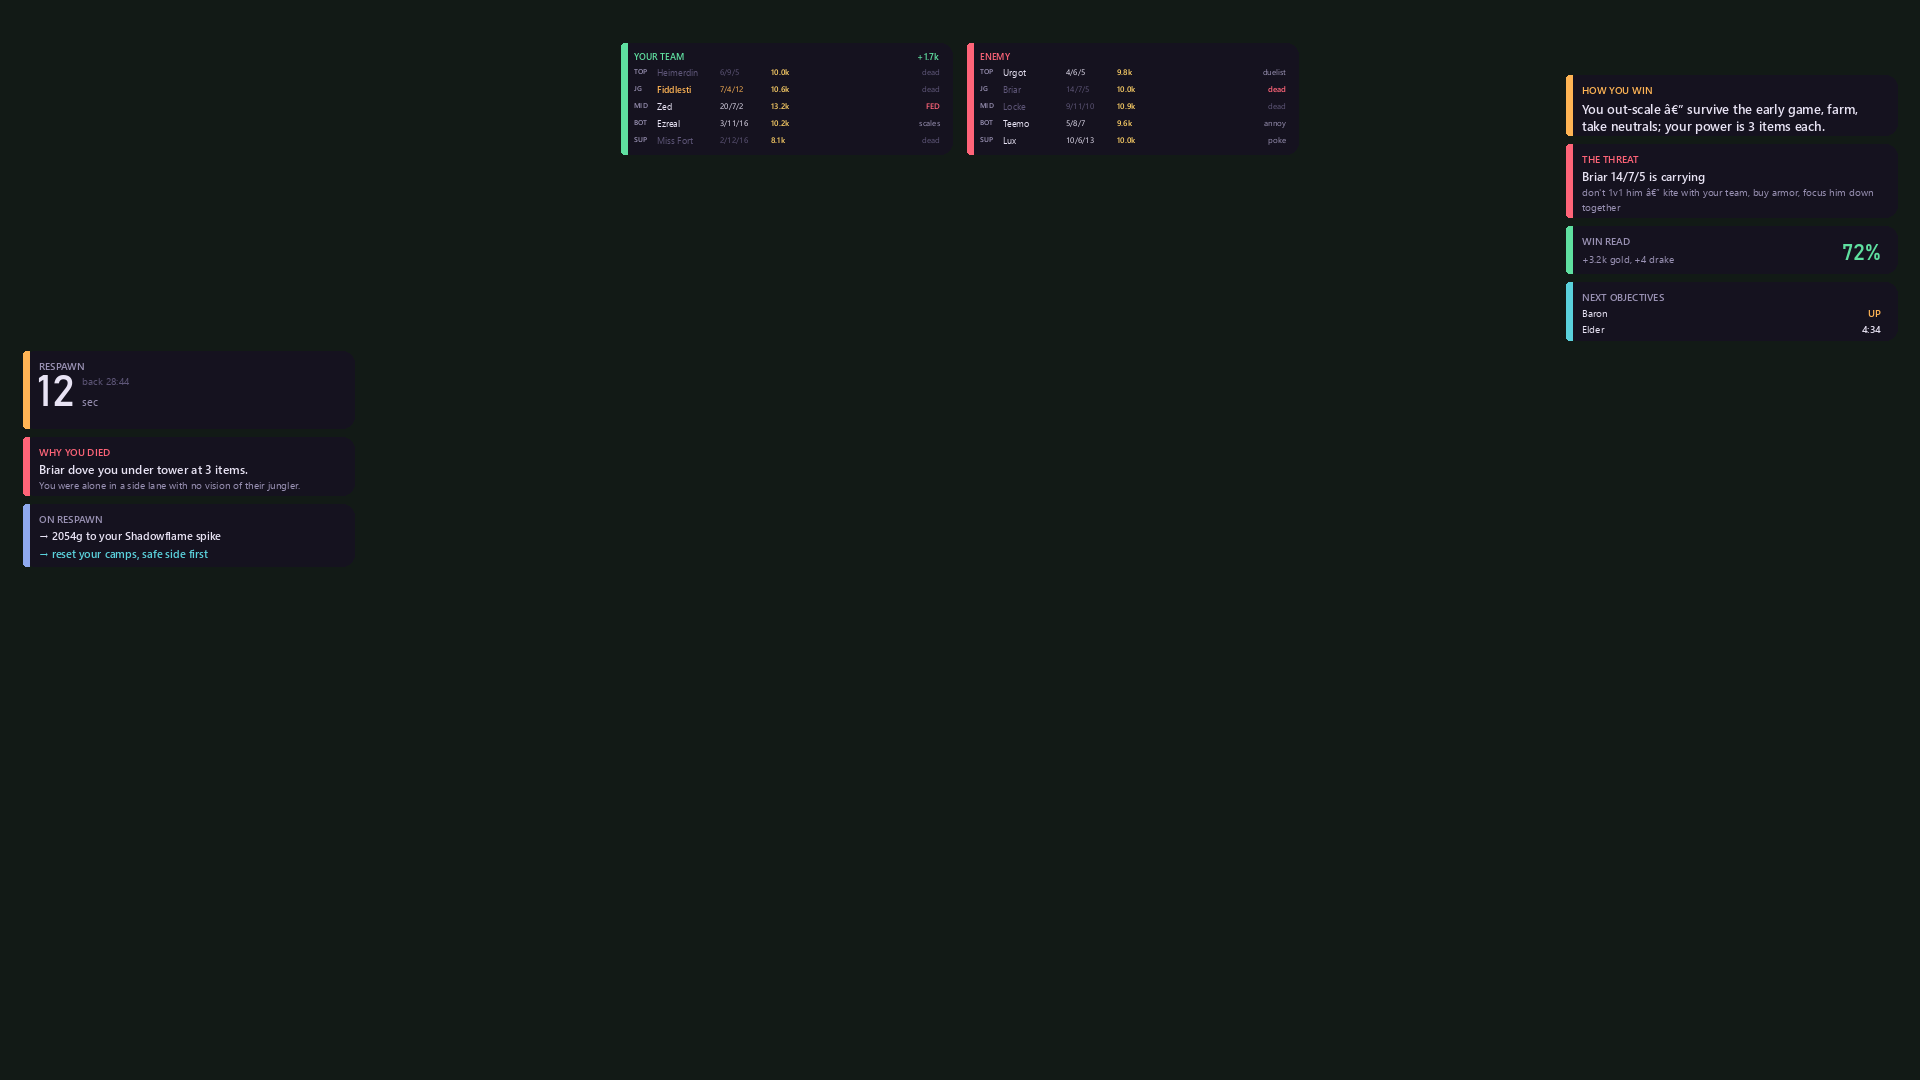
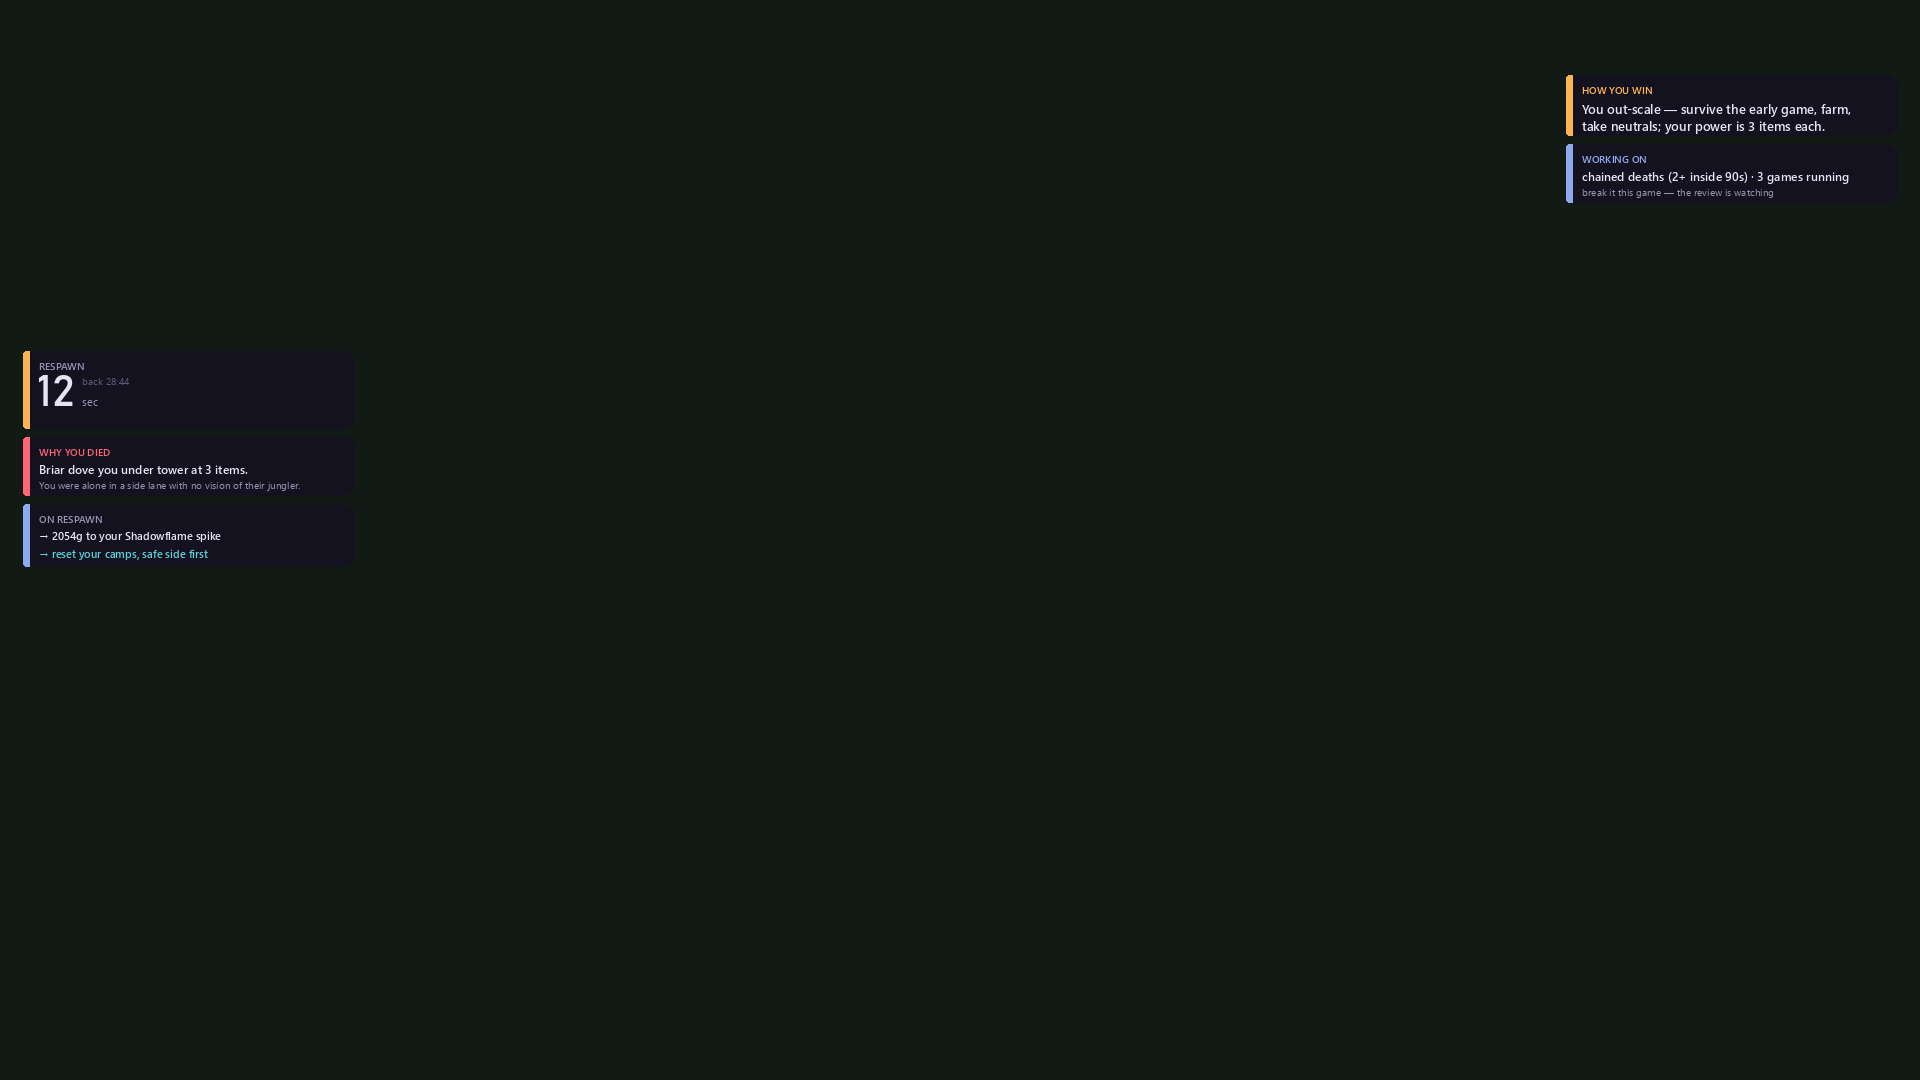
Death brief slimmed to coaching-only + WORKING ON pattern card
Cut boards/threat/win-read/objectives/feed (duplicated TAB, the widget
and chat). Kept: respawn clock + on-respawn plan, WHY YOU DIED, HOW YOU
WIN. Added WORKING ON: the recurring behavior-ledger pattern shown at
the moment of death. ~5% screen coverage.

diff --git a/ui/smitedead.py b/ui/smitedead.py
@@ -1,16 +1,13 @@
 #!/usr/bin/env python3
 """smitedead.py - the fullscreen DEATH BRIEF: a see-through overlay that owns the grey screen.
 
-When you die, this fades in over the whole monitor with the dense read you can't afford to
-process while alive: a giant respawn clock + the one tempo verdict, what to buy on respawn,
-the win read, the scariest enemy spike, the next objectives, and a feed of what you missed.
-Laid out AROUND the game's own death HUD (keep-out map in render_frame): team boards sit
-top-center where TAB lives, the reactive read hangs under the death recap on the left, the
-strategic read hangs under the stats bar on the right — nothing covers the recap, chat,
-respawn portraits, minimap, BACK IN plate, or the TEMPO widget's bottom-left corner. The
-CENTER stays clear (magenta chroma key -> fully transparent AND click-through), so you keep
-watching the fight through it and keep full camera control while dead. It vanishes the
-instant you respawn.
+A death buys you exactly two things: what to do the second you respawn, and one learning
+rep. That's ALL this draws (v0.9.27 cut the team boards / threat / win-read / objectives /
+feed — TAB, the widget and the chat already carry them): the respawn clock + on-respawn
+buy/move, WHY YOU DIED, your recurring PATTERN from the behavior ledger ("working on"),
+and HOW YOU WIN as the one strategic anchor. Laid out around the game's own death HUD
+(keep-out map in render_frame) with the CENTER clear (magenta chroma key -> transparent +
+click-through) so you keep watching the fight. It vanishes the instant you respawn.
 
 100% read-only off the live-client feed (:2999). It never moves your camera or sends a single
 input to the game - that would be automation Riot bans for. It only shows you what's true.
@@ -254,21 +251,10 @@ def render_frame(dd, b, W, H):
             yy += S(20)
         return y + h + S(12)
 
-    # ========== TOP-CENTER: the two team boards, tab-scoreboard position ==========
-    # (the one big free band while dead — the game's own banner sits above, the fight
-    # is usually below; matching the TAB scoreboard's home makes it feel native)
-    board = b.get("board")
-    if board and (board.get("allies") or board.get("enemies")):
-        bw = colw
-        bx = (W - (bw * 2 + S(20))) // 2
-        ty = S(56)
-        if board.get("allies"):
-            _team_block(d, S, bx, ty, bw, board["allies"], "YOUR TEAM", C_GOOD,
-                        lead=board.get("gold_lead"))
-        if board.get("enemies"):
-            _team_block(d, S, bx + bw + S(20), ty, bw, board["enemies"], "ENEMY", C_BAD)
-
     # ========== LEFT LANE: the reactive read (clock, why you died, respawn plan) ==========
+    # (v0.9.27: the team boards / threat / win-read / objectives / feed are GONE — TAB,
+    # the widget and the chat already carry them. A death buys you exactly two things:
+    # what to do on respawn, and one learning rep. That's all this draws now.)
     ly = LY0
     ch = S(100)
     _card(d, lx, ly, colw, ch, _TONE_C.get(b.get("tone"), C_EMBER))
@@ -305,63 +291,44 @@ def render_frame(dd, b, W, H):
                 yy += S(24)
             ly += h + S(12)
 
-    # what you missed, folded into whatever's left of the lane (the game's own chat and
-    # the TEMPO widget live at the bottom-left — never park a card down there again)
-    feed = b.get("feed") or []
-    if feed:
-        rows = min(len(feed), (LY1 - ly - S(40)) // S(22))
-        if rows >= 2:
-            fh = S(40) + S(22) * rows
-            _card(d, lx, ly, colw, fh, C_LINE)
-            d.text((lx + S(22), ly + S(12)), "WHILE YOU WERE DEAD", font=_wfont(S(13), True),
-                   fill=C_MUTED)
-            yy = ly + S(36)
-            for r in feed[:rows]:
-                col = C_GOOD if r.get("ally") else C_BAD
-                d.text((lx + S(22), yy), f"{r.get('ago', 0):>2}s", font=_wfont(S(12)), fill=C_FAINT)
-                d.text((lx + S(60), yy), r.get("text", ""), font=_wfont(S(13)), fill=col)
-                yy += S(22)
-
-    # ========== RIGHT LANE: the strategic read (win con, threat, win%, objectives) ==========
+    # ========== RIGHT LANE: the strategic anchor + the climb lever ==========
     ry = RY0
     if b.get("wincon"):
         ry = _block(rx, ry, "HOW YOU WIN", C_EMBER, b["wincon"], None, C_EMBER, big=True,
                     ymax=RY1)
-    threat = b.get("threat")
-    if threat:
-        ry = _block(rx, ry, "THE THREAT", C_BAD, threat.get("line"), threat.get("sub"), C_BAD,
-                    ymax=RY1)
-    wp = b.get("winprob")
-    if wp:
-        wh = S(62)
-        if ry + wh <= RY1:
-            good = wp.get("ahead")
-            _card(d, rx, ry, colw, wh, C_GOOD if good else C_BAD)
-            _hdr(rx, ry, "WIN READ", C_MUTED)
-            pct = f"~{int(wp.get('pct') or 0)}%"
-            d.text((rx + colw - S(22) - d.textlength(pct, font=_dfont(S(30))), ry + S(20)),
-                   pct, font=_dfont(S(30)), fill=(C_GOOD if good else C_BAD))
-            d.text((rx + S(22), ry + S(34)), wp.get("basis") or "", font=_wfont(S(13)), fill=C_MUTED)
-            ry += wh + S(12)
-    objs = b.get("objectives") or []
-    if objs:
-        rows = min(len(objs), (RY1 - ry - S(34)) // S(22))
-        if rows >= 1:
-            oh = S(34) + S(22) * rows
-            _card(d, rx, ry, colw, oh, C_ARC)
-            _hdr(rx, ry, "NEXT OBJECTIVES", C_MUTED)
-            oy = ry + S(32)
-            for o in objs[:rows]:
-                secs_o = o.get("secs") or 0
-                up = o.get("up") or secs_o <= 0
-                tcol = C_EMBER if (up or o.get("urgent")) else C_TXT
-                when = "UP" if up else _mmss(secs_o)
-                d.text((rx + S(22), oy), o.get("label", "?"), font=_wfont(S(14)), fill=C_TXT)
-                d.text((rx + colw - S(22) - d.textlength(when, font=_wfont(S(14), True)), oy),
-                       when, font=_wfont(S(14), True), fill=tcol)
-                oy += S(22)
+    # your recurring PATTERN from the behavior ledger — surfaced at the exact moment you
+    # may have just repeated it
+    pat = b.get("pattern")
+    if pat:
+        _block(rx, ry, "WORKING ON", C_INFO, pat, "break it this game — the review is watching",
+               C_INFO, ymax=RY1)
 
     return img
+
+
+def _working_pattern():
+    """The behavior tag you're currently repeating (streak >= 2 in the review ledger), as
+    one plain line — or None. Read once per overlay launch; cheap local JSON."""
+    try:
+        import lolprofile as lp
+        led = json.load(open(lp._BEHAVIOR_FILE, encoding="utf-8"))
+        gs = led.get("games") or []
+        last_hits = set((gs[-1].get("hits") if gs else []) or [])
+        best, bn = None, 1
+        for tag in last_hits:
+            n = 0
+            for g in reversed(gs):
+                if tag in (g.get("hits") or []):
+                    n += 1
+                elif tag in (g.get("ev") or []):
+                    break
+            if n > bn:
+                best, bn = tag, n
+        if best:
+            return f"{lp._BEHAVIOR_TAGS.get(best, best)} · {bn} games running"
+    except Exception:
+        pass
+    return None
 
 
 # ---------- click-through / no-activate window styling ----------
@@ -408,7 +375,8 @@ def main():
     hwnd = toplevel_hwnd(root.winfo_id())
     _make_click_through(hwnd)
 
-    state = {"brief": None, "ts": 0.0, "fails": 0, "run": True, "shown": False, "hwnd": hwnd}
+    state = {"brief": None, "ts": 0.0, "fails": 0, "run": True, "shown": False, "hwnd": hwnd,
+             "pattern": _working_pattern()}
 
     def poll():
         while state["run"]:
@@ -443,6 +411,7 @@ def main():
         if b:
             live = dict(b)                          # smooth the clock between polls
             live["secs"] = max(0, (b.get("secs") or 0) - (time.monotonic() - state["ts"]))
+            live["pattern"] = state.get("pattern")
             frame = render_frame(dd, live, W, H)
             ph = ImageTk.PhotoImage(frame)
             label.configure(image=ph)

diff --git a/CHANGELOG.md b/CHANGELOG.md
@@ -1,5 +1,8 @@
 # Smiteless — Patch Notes
 
+## v0.9.27
+- **The Death Brief went on a diet — coaching, not coverage.** The team boards, threat card, win read, objective list and kill feed are gone (TAB, the widget and the chat already show all of it). A death now buys you exactly two things, so that's all it draws: the **respawn clock + on-respawn buy/move** and **WHY YOU DIED** on the left, **HOW YOU WIN** on the right — plus one new card that actually serves the climb: **WORKING ON**, your recurring pattern from the behavioral review ledger ("chained deaths (2+ inside 90s) · 3 games running — break it this game"), surfaced at the exact moment you may have just repeated it. Total screen coverage: ~5%.
+
 ## v0.9.26 — the reliability release
 No new features — this one makes what's already there honest.
 - **Coaching reads Ranked Solo only (by default).** The profile pulled ALL queues, so normals and flex distorted your champion pool, session read, and climb advice. Pool/session/climb/patterns now come from ranked solo games (season pool = solo queue only); it falls back to all queues — clearly labelled — only when the solo sample is too thin. Toggle: Settings → "Coach from Ranked Solo games only".
